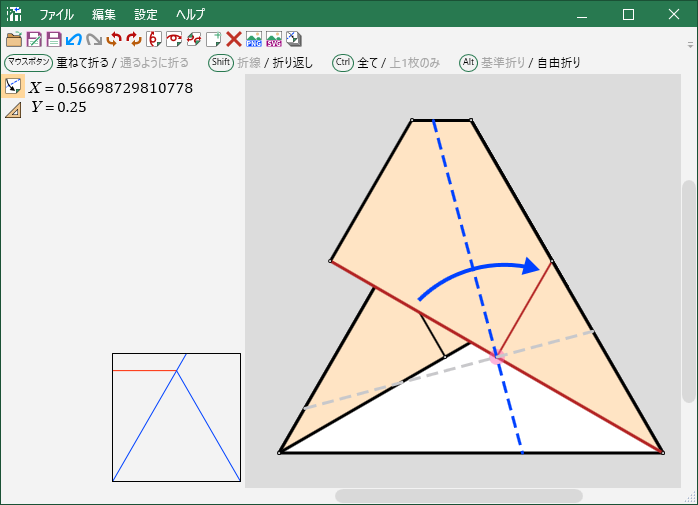
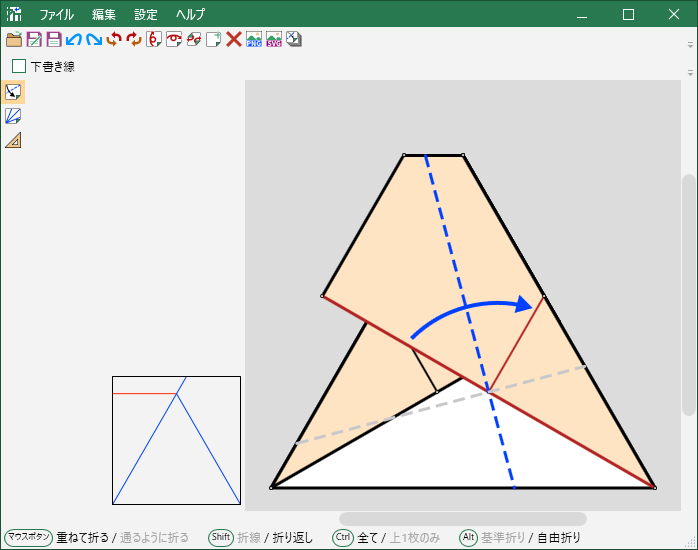
[update] manual

diff --git a/Documents/en/manual.md b/Documents/en/manual.md
@@ -19,6 +19,7 @@ Tools and commands
   * [Ignore alignments and fold freely (Alt key)](#Ignore-alignments-and-fold-freely-Alt-key)
   * [Fold so that two elements overlap (Left drag)](#Fold-so-that-two-elements-overlap-Left-drag)
   * [Fold through the two elements (right drag)](#Fold-through-the-two-elements-right-drag)
+* [n-divide folding tool](#-n-divide-folding-tool)
 * [Measurement tool](#-Measurement-tool)
 * [Commands](#Commands)
 * [Other menu items](#Other-menu-items)
@@ -194,6 +195,13 @@ Drag right from point to point, to fold through the two points.
 
 Drag right from point to line or line to point, to fold through the point and perpendicular to the line.
 
+## ![icon](../../Plugins/Orimath.Basics/Icons/divide.png?raw=true) n-divide folding tool
+
+![view](../Images/divide.png?raw=true)
+
+By the operation like the folding tool, make creases that divide the area between two points or two lines into *n*-th.
+You can change *n* in the text box at the top of the window.
+
 ## ![icon](../../Plugins/Orimath.Basics/Icons/measure.png?raw=true) Measurement tool
 
 ![view](../Images/measure.png?raw=true)
@@ -203,7 +211,6 @@ By dragging points and lines on the paper, you can find their distances and inte
 ## Commands
 
 Click on the buttons lined up at the top of the window to perform operations.
-
 
 ### ![icon](../../Plugins/Orimath.Basics/Icons/open_file.png?raw=true) Open (Ctrl+O)
 
@@ -265,6 +272,10 @@ Export the current paper in a svg image.
 ### ![icon](../../Plugins/Orimath.Basics.View/Icons/inst_list.png?raw=true) Show instructions (Ctrl+D)
 
 Show the origami instructions of the current paper. Diagrams is the same as that is displayed on during the fold operation.
+
+### ![icon](../Images/check.png?raw=true) Draft
+
+When this check box is checked, **draft lines** will be added instead of creases. Draft lines are light gray, and not included in origami instructions.
 
 ## Other menu items
 
